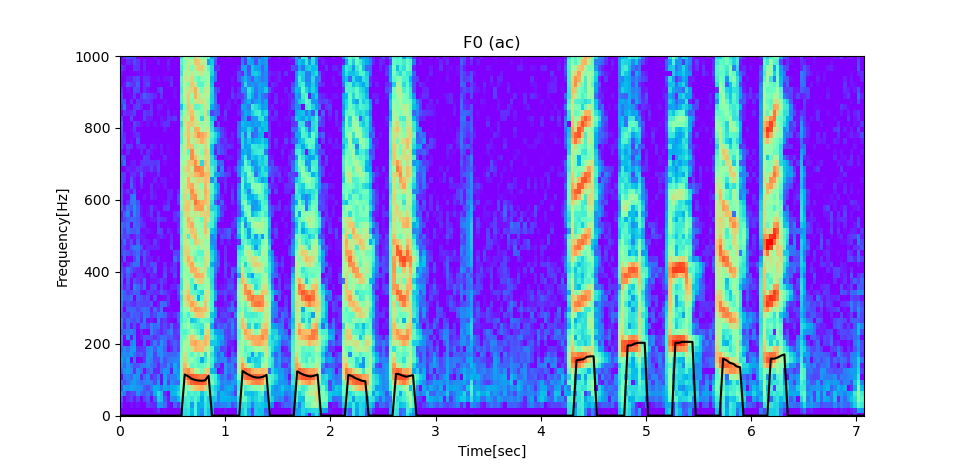
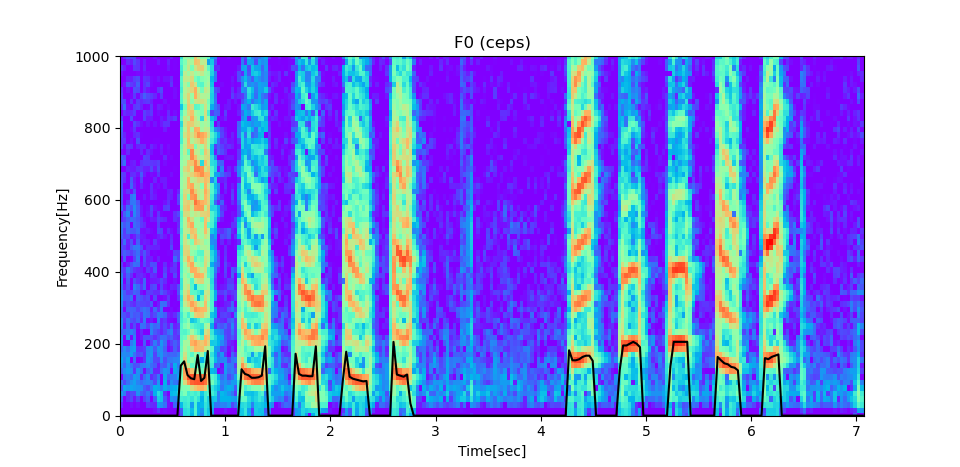
arrange xaxis of f0 glaph

diff --git a/ex_4/a_miyashita/main.py b/ex_4/a_miyashita/main.py
@@ -258,7 +258,7 @@ def main(args):
         y_axis="linear",
         cmap="rainbow",
     )
-    t = np.linspace(0, signal.size / sr, f0.size)
+    t = np.linspace(0, (signal.size - win_size) / sr, f0.size)
     plt.ylim(0, 1000)
     plt.plot(t, f0, color="black")
     plt.title("F0 ({})".format(args.f0))
